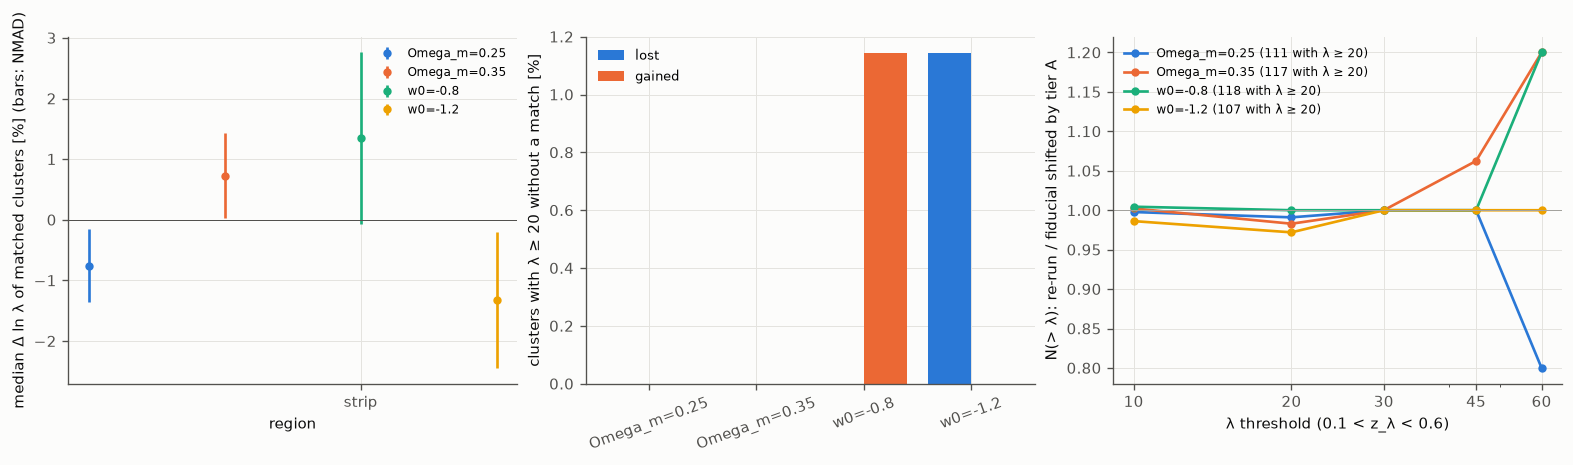
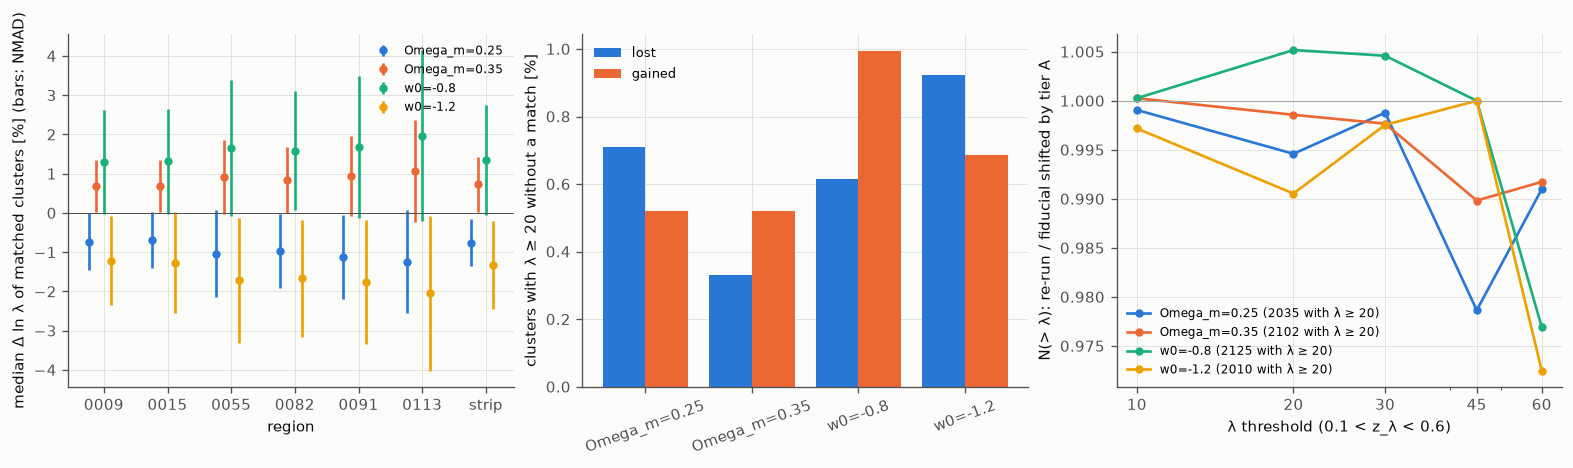
Cosmology sensitivity docs: tiers B and C on six DR11 regions (CC-IN2P3)
- Tier B (blind re-runs in Omega_m = 0.25, 0.35, w0 = -0.8, -1.2 with the production
  calibration, regions 9, 15, 55, 82, 91, 113): 99 % of the clusters with lambda >= 20 matched,
  lambda shifted as at fixed centres, counts above each threshold as predicted by the tier-A
  response (within 0.5 %): no selection correction.
- Tier C (re-calibration in Omega_m = 0.25, 0.35, regions 15 and 82): the training absorbs
  10-15 % of the shift of lambda.

diff --git a/docs/cosmology_sensitivity.rst b/docs/cosmology_sensitivity.rst
@@ -27,9 +27,10 @@ Summary
   clusters; d ln λ/dΩ_m = +0.04 at z ≈ 0.1 to +0.19 at z ≈ 0.9, more for rich clusters and in
   shallow data; an elasticity d ln λ/d ln D_A ≈ −0.35); **z_λ does not move**. The response
   scatters from cluster to cluster by about its own size.
-- **Running the whole finder in another cosmology changes nothing more** (tier B on the strip):
-  the same clusters, 1–2 % of them with another centre, λ shifted as at fixed centres, and counts
-  above each threshold as predicted by that shift.
+- **Running the whole finder in another cosmology changes nothing more** (tier B, six regions
+  and the strip): the same clusters, 1.5–2 % of them with another centre, λ shifted as at fixed
+  centres, and counts above each threshold as predicted by that shift (within 0.5 %).
+  **Re-calibrating** in the other cosmology (tier C) absorbs 10–15 % of the shift of λ.
 - **If m* followed the luminosity distance** (a fixed luminosity limit instead of fixed
   apparent magnitudes), the response would change sign above z ≈ 0.3 and be larger
   (d ln λ/dΩ_m ≈ −0.2, down to −0.5 at z > 0.7).
@@ -195,27 +196,43 @@ The ratio of N(> λ) between the re-run and the tier-A prediction (the fiducial 
 shifted by the measured response) gives the selection correction c(λ, z) of the counts model.
 ``scripts/cosmo_sens/cosmo_sens.sh`` runs the three tiers (`Reproduce`_).
 
-**Tier B on the strip** (the same 3 sweeps and own box as tier A, the production calibration, the
-blind mode run five times on the laptop GPU, 20 minutes each):
+**Results** (tier B on the six regions and on the strip of tier A, 20–60 minutes per run on a
+V100 or the laptop GPU; tier C on regions 15 and 82, each calibration 2 hours on 8 CPU cores):
 
 .. figure:: figures/cosmology_sensitivity/rerun_tierB.png
    :alt: Change of lambda of matched clusters, clusters lost or gained, and N(>lambda) ratios between re-runs
 
-   Blind re-runs against the fiducial re-run. Left: median change of ln λ of the clusters with
-   λ ≥ 20 matched between the runs (bars: NMAD). Middle: clusters with λ ≥ 20 without a match.
-   Right: N(> λ) of the re-run over that of the fiducial re-run with λ shifted by the tier-A
-   response (1 when the re-measurement at fixed centres explains the change of the counts; at
-   λ ≥ 60 one cluster is 20 %).
+   Tier B: blind re-runs against the fiducial re-run, with the production calibration. Left:
+   median change of ln λ of the clusters with λ ≥ 20 matched between the runs (bars: NMAD), per
+   region. Middle: clusters with λ ≥ 20 without a match. Right: N(> λ) at 0.1 < z_λ < 0.6, summed
+   over the regions, of the re-run over that of the fiducial re-run with λ shifted by the tier-A
+   response table (1 when the re-measurement at fixed centres explains the change of the counts).
 
-- All but two of the 175 clusters with λ ≥ 20 are matched, 99 % of them by their central galaxy;
-  the two lost (w0 = −1.2) or gained (w0 = −0.8) cross λ = 20 because of the shift of λ.
-- The matched clusters move by Δ ln λ = −0.76 % and +0.73 % (Ω_m = 0.25 and 0.35), +1.35 % and
-  −1.32 % (w0 = −0.8 and −1.2): tier A gives −0.71 %, +0.66 %, +1.27 % and −1.21 %.
-- 0.6 to 2.3 % of the clusters change centre, the median member overlap
-  (Σ min(p, p′)/Σ max(p, p′)) is 0.98–0.99, z_λ does not move.
-- The counts above each λ threshold follow the tier-A shift to within the noise of the strip: the
-  seeds, the percolation order, the centring and the selection cuts add nothing measurable to the
-  response of λ, so the counts model uses no selection correction (c = 0).
+.. figure:: figures/cosmology_sensitivity/rerun_tierC.png
+   :alt: The same for re-calibrated runs on two regions
+
+   Tier C: the same for the runs with a calibration made in the other cosmology, against the
+   fiducial re-calibration, on regions 15 (DES) and 82 (DECaLS).
+
+- **The same clusters**: of the 4,048 clusters with λ ≥ 20 in the six regions, 99.1–99.7 % are
+  matched in each cosmology (98 % of them by their central galaxy, the rest by seed or
+  position); the 0.3–1 % lost or gained are mostly those that the shift of λ moves across
+  λ = 20.
+- **λ moves as at fixed centres**: Δ ln λ = −1.0 % and +0.9 % (Ω_m = 0.25 and 0.35), +1.6 % and
+  −1.7 % (w0 = −0.8 and −1.2), median over the regions; from the DES regions (9, 15) to the
+  shallowest DECaLS region (113) the shift grows by 70 %, as in tier A. 1.5–2 % of the clusters
+  change centre, the median member overlap (Σ min(p, p′)/Σ max(p, p′)) is 0.97–0.98, and z_λ does
+  not move (|Δz| < 10⁻⁴).
+- **The counts follow the tier-A shift**: N(> λ) of the re-runs over the fiducial re-run shifted
+  by the response table is 1 within 0.5 % at λ ≥ 10, 20 and 30, and within 1–3 % at λ ≥ 45 and 60
+  (265 and 110 clusters): the seeds, the percolation order, the centring and the cuts add nothing
+  measurable, so the counts model uses no selection correction (c = 0).
+- **Re-calibrating changes little** (tier C): with the red sequence, the zred and z_λ
+  corrections and wcen trained in the other cosmology, Δ ln λ is −0.6 % and −0.9 % (Ω_m = 0.25,
+  regions 15 and 82; −0.7 % and −1.0 % with the fiducial calibration) and +0.6 % and +0.7 %
+  (Ω_m = 0.35; +0.7 % and +0.9 %): the training absorbs 10–15 % of the response. z_λ moves by
+  10⁻⁴ (the z_λ correction is retrained).
+- On the strip (one region, 175 clusters with λ ≥ 20) the four re-runs give the same picture.
 
 The counts model
 ----------------
